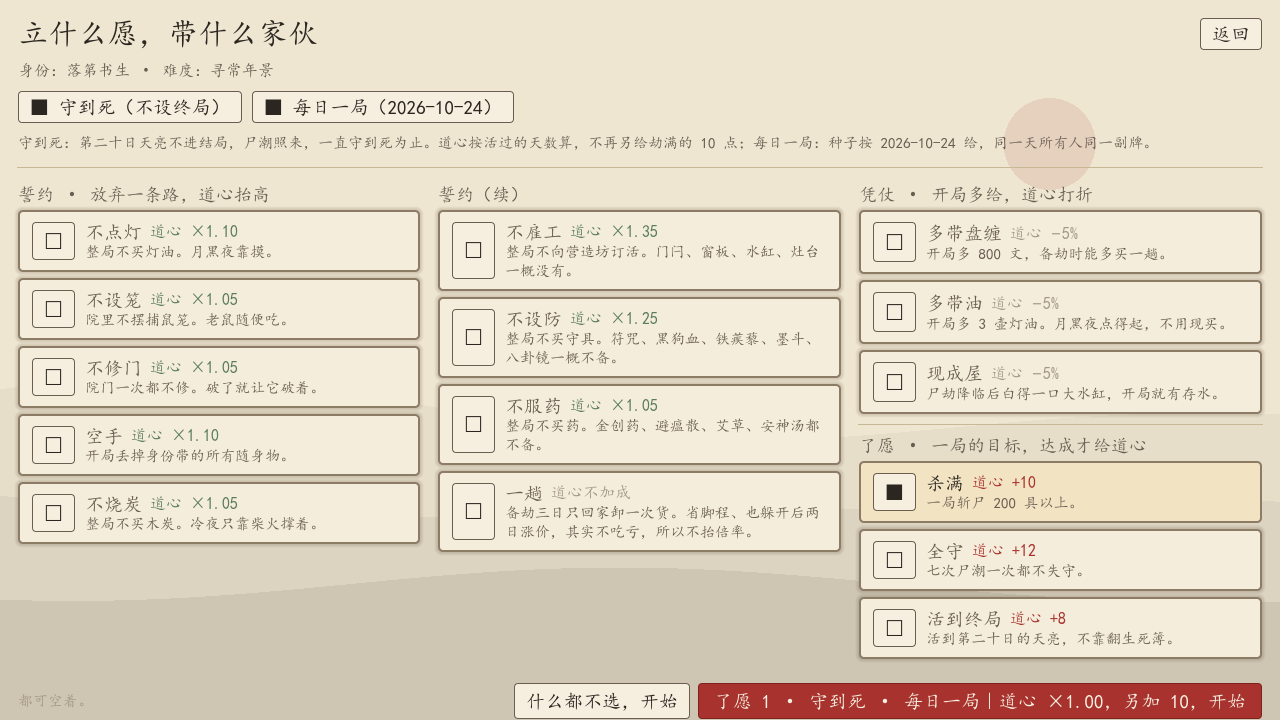
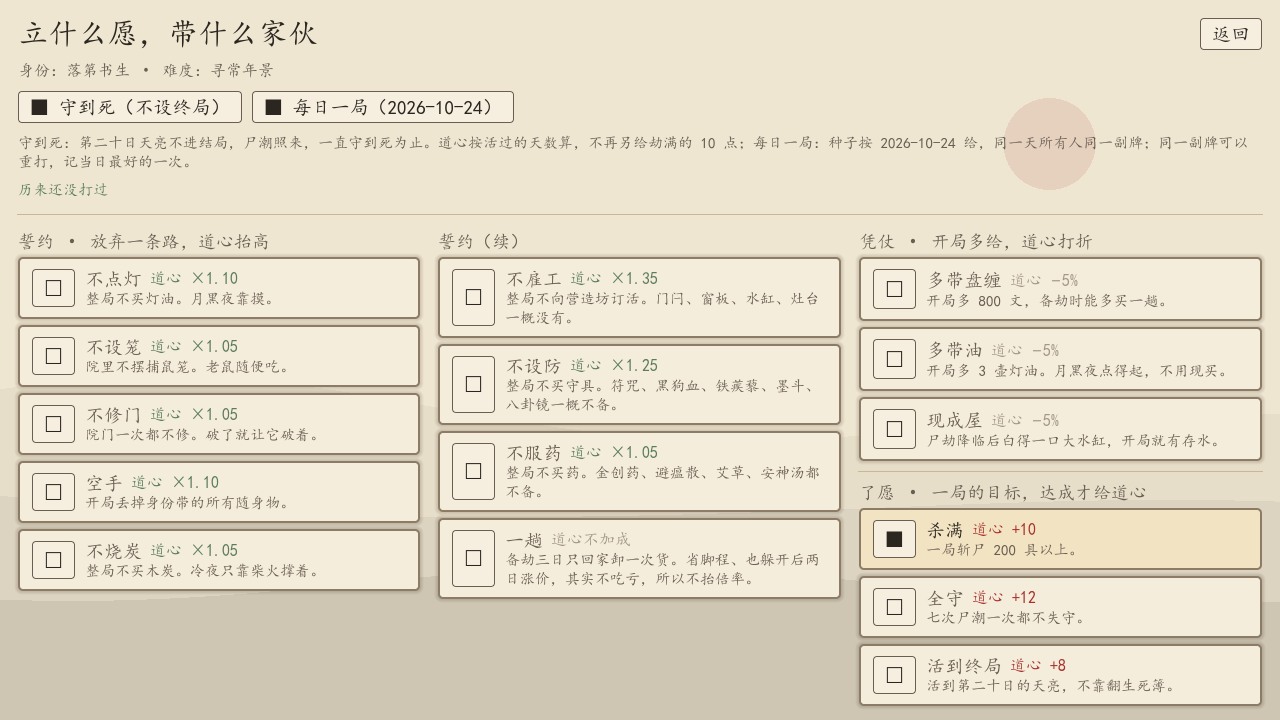
每日一局补上记分板：只记每日局、按模式分组、记当日最好
第 19 节留下的问题：每日一局只有"同一副牌"，打完没法跟自己昨天比。补分数口径。
四条口径都是我自己定的，理由写进 docs/09 第 20 节，容易被推翻，改起来只动 record_daily：

- 分数用结算道心（end_run 的总数），不另造一套数。道心已经把胜负、活过的天数、
  保住的波次、誓约倍率、了愿加减都折进去了，是唯一的统一口径。代价认下来：
  道心能被 9 条誓约拉到 ×2.00，所以榜上比的是"敢立多少誓 + 打得多好"。
- 只记每日局（run.flags.daily 非空）。寻常局能无限重开，进榜会把"今日最好"刷成随机数。
- 记开局那天，不记结算这天：跨零点打完的局归它自己那副牌，不然成绩会落到不相干的日子。
- 守到死 / 寻常分两组。守到死没有劫满那 10 点也没有终局，和寻常局放一个榜里永远垫底。
- 记当日最好、不卡次数：一局几十分钟，单机硬卡"一天一次"太苛刻。代价是改系统日期能刷，
  本地单机、没有联网榜，这个作弊面不值得用体验换。

落在 meta.daily（{day, runs, best, all}，按 normal/endless 分组），换日清当日、历来留着。
meta 一直是宽松读取，record_daily 里发现 daily 不是字典就补一个，旧档不用迁移。

显示两处：立愿界面勾上每日一局时报"今日第 N 局 · 今日最好 · 历来最好"；
结局界面（每日局才有）先预览——这一局的道心是点了"重走/合上"才落盘的，
不预览就只能看着"今日第 0 局"。

顺手改错：docs/07 里两条"缺"是错的。SelectPeople 有（roles_screen 选身份，
只是没有"挑同伴带走"那层）；加工/制符也有（devices.json 的 crafts），
只是制造只有画符一张配方，谈不上"取舍"。已按 grep 到的实情改写。

测试：sim_test 新增 test_daily_score（14/14）——寻常局不进榜、同一天取最好、
守到死分组、换日清当日留历来、跨天的局归自己那天、end_run 真落盘、预览行文案；
ui_smoke 在每日局上走一遍"结局界面 → 合上此录"，验 meta 被写进去（含守到死那组）。
screen_shot 重拍 challenge_modes.png（记分板那行没把三栏挤下去）。

回归：编译 53/0、测试 14/14 项、不变量 0、界面冒烟 0

Changed region(s): [[0.0, 0.2139, 1.0, 1.0], [0.9062, 0.1833, 0.9688, 0.2139]]

diff --git a/docs/09-challenge-mode-design.md b/docs/09-challenge-mode-design.md
@@ -722,4 +722,65 @@ docs/07 一直记着两条"缺"：**开局直接选无尽**（原作 `RogueSelec
 种子就是今天、守到死局里「活到终局」不算达成），ui_smoke 验两个开关的勾选与重画不叠层；
 `screen_shot` 加 `--mode=` 出图 docs/screenshots/challenge_modes.png。
 **未完成**：每日一局没有"今日最佳"这类横向比较（原作 `DailyScore`），现在只是同一副牌，
-不记分、不排名。**下一步**：如果要让每日局有意义，得先有分数口径（道心？活过天数？）。
+不记分、不排名。**下一步**：见第 20 节（记分板已补）。
+
+
+## 20. 每日一局的记分板
+
+第 19 节留下的问题：每日一局只有"同一副牌"，没有分数，所以打完没法跟自己昨天比、
+也没法跟同一副牌的别人比。这一节补分数口径。**下面四条都是我自己定的，理由是写出来的，
+容易被推翻，改起来也只动 `Ledger.record_daily` 一个函数**。
+
+### 20.1 分数用什么算：结算道心
+
+用 `Ledger.end_run` 算出来的**道心总数**，不另造一套分数。理由：道心已经把胜负、
+活过的天数、守住的波次、誓约倍率、了愿加减全都折进去了，是游戏里唯一的统一口径；
+再造一个"每日分"，玩家就得同时理解两套数，而且两套迟早会算出相反的结论
+（例如"道心低但活得更久"到底算打得好还是打得差）。
+
+代价认下来：**道心是可以被挑战选项拉高的**（9 条誓约全挑 ×2.00），
+所以记分板比的是"敢立多少誓约 + 打得多好"，不是纯技术。这跟道心本身的设计一致，不改。
+
+### 20.2 只记每日局
+
+`run.flags.daily` 空着的局（随机种子）一律不记。寻常局能无限重开，
+放进同一个榜会把"今日最好"顶成一条刷出来的数，每日一局就没有意义了。
+
+### 20.3 记开局那天，不记结算这天
+
+跨零点打完的局归它开局那天——那才是它用的那副牌。不然凌晨打完一局，
+成绩会落到"今天"，而今天的牌跟这局无关。
+
+### 20.4 寻常 / 守到死分两组
+
+守到死没有劫满那 10 点（`ENDING_BONUS` 只在 `phase == "ending"` 时给），也没有终局，
+和寻常局放在一个榜里永远垫底。两组各记各的，界面按当前选的模式显示对应那一组。
+
+### 20.5 记当日最好，不卡次数
+
+不学 Wordle 那种"一天只有一次"。一局要打几十分钟，单机硬卡次数太苛刻，
+打崩了就只能等明天。代价是**改系统日期就能刷**——本地单机、没有联网排名，
+这个作弊面不值得用体验去换。
+
+### 20.6 落在哪
+
+`meta.daily`（跨局档案）：`{"day": …, "runs": …, "best": {normal/endless}, "all": {…}}`。
+换日时当日那一栏清零，`all`（历来最好）留着。**没加存档版本号**：meta 一直是宽松读取的，
+`record_daily` 里发现 `daily` 不是字典就补一个 `State.new_daily()`，旧档不用迁移。
+
+显示两处：
+
+- **立愿界面**勾上每日一局时，下面一行「今日第 N 局 · 今日最好 X · 历来最好 Y」。
+- **结局界面**（每日局才有）：这一局的道心是点了"重走 / 合上"才落盘的，
+  所以界面上先把记分板**预览**出来（`daily_line` 传 `pending`），免得玩家看着"今日第 0 局"。
+
+---
+
+**本轮产出**：`State.new_daily()` + `meta.daily`；`Ledger.record_daily()`（end_run 里调）、
+`Ledger.daily_line()`（含 `pending` 预览）；立愿界面与结局界面各显示一行；
+sim_test 新增 `test_daily_score`（14/14）：寻常局不进榜、同一天取最好、守到死分组、
+换日清当日留历来、跨天的局归自己那天、end_run 真的落盘、预览行的文案；
+ui_smoke 在每日局上走一遍"结局界面 → 合上此录"，验 meta 真的被写进去。
+**未完成**：没有联网，所以没有跨玩家的排名，只能自己在本地比（原作 `DailyScore` 是有榜的）。
+**顺手改错**：docs/07 里两条"缺"其实是错的——`SelectPeople` 有（`roles_screen` 选身份），
+加工/制符也有（`devices.json` 的 crafts），只是制造只有画符一张配方，谈不上"取舍"。

diff --git a/README.md b/README.md
@@ -46,7 +46,7 @@
 
 1. **备劫三日**：在临川城里跑铺子囤货。走动耗时辰，独轮车有负重上限，酉时宵禁。铺子会从"正常"变成"拥挤"再到"哄抢"，门口人越来越多，米行第三日午时关门。营造坊（★）的活计要在第二日前订。时辰还多时歇下、或最后一天入夜前，都会先确认。
    - **载具在杂货铺买**：板车 600 文（+20 斤）、独轮车 1200 文（+40 斤）、驴车 3200 文（+70 斤，且远路只要一个时辰）。一趟只推一辆，**按载重最大的那辆算**，不叠加。灾后载具全部清掉。
-   - **开局先定难度**：选完身份进「这一劫，有多难？」，四档预设（暖冬 / 寻常年景 / 荒年 / 永夜），参数全在 `data/difficulty.json`。乘数管六件事：开局银两、气血上限、每小时食量、每小时水量、天气寒冷、尸潮规模。带记忆重开沿用上一档，不再问。定完难度进「立什么愿，带什么家伙」——誓约 / 凭仗 / 了愿都能空着，顶上还有两个**开局模式**开关：**守到死**（第二十日天亮不进结局，尸潮照来，守到死为止）和**每日一局**（种子按本地日期给，同一天所有人同一副牌）。
+   - **开局先定难度**：选完身份进「这一劫，有多难？」，四档预设（暖冬 / 寻常年景 / 荒年 / 永夜），参数全在 `data/difficulty.json`。乘数管六件事：开局银两、气血上限、每小时食量、每小时水量、天气寒冷、尸潮规模。带记忆重开沿用上一档，不再问。定完难度进「立什么愿，带什么家伙」——誓约 / 凭仗 / 了愿都能空着，顶上还有两个**开局模式**开关：**守到死**（第二十日天亮不进结局，尸潮照来，守到死为止）和**每日一局**（种子按本地日期给，同一天所有人同一副牌；记分用结算道心，今日最好 / 历来最好，守到死与寻常分开记）。
 2. **尸劫降临**：之后是**连续时间**，右上角有时辰表盘，左下角调倍速（❚❚ ▶ ▶▶ ▶▶▶）。做事要花时间：做饭一个时辰、打理菜畦四十五分钟、读书两个时辰……忙的时候时间自动加速，睡觉更快。一天的节奏：8:00 可能来事件，18:00 天黑，20:00 自动取暖，21:00 外出的必须回家、有尸潮的夜里同时要**布防**，22:00 尸潮，次日 6:00 天亮结算**功过格**。
    - **20:00 取暖怎么取**：装了**柴油发电机**且库里有柴油，就烧一桶油转一整夜（再装上**暖气**的话屋里整夜往上回暖、睡觉也睡得沉）；不然照旧烧炭 / 柴。**只有冷夜才值得烧油**，暖夜开机器是白烧。油在杂货铺有卖，一桶三百文。
    - HUD 参考原版布局：左上菜畦清单（带倒计时）、今夜预警和**布防守力预测**，右上第几日 / 时刻 / 表盘 + 印章按钮 + 院子温度，右下状态条，左下背包 + 常用行为 + 倍速，底部正中心愿。

diff --git a/docs/07-survival-log-features.md b/docs/07-survival-log-features.md
@@ -50,7 +50,7 @@
 | `TradeUI` 以物易物 | 无（只有银钱交易） |
 | `PawnShop` 当铺 | `pawn()`，家传物按 0.9、其余按 0.6 折算 |
 | `VehicleShop` 载具店 | **v0.9 已补**：板车（600/+20）、独轮车（1200/+40）、驴车（3200/+70 且远路一个时辰），杂货铺有售 |
-| `SelectPeople` 选择带走谁 | **无** |
+| `SelectPeople` 选择带走谁 | **半有**：`roles_screen` 选身份对应这一步（原作也是"开局先挑人"），但只挑一个自己、没有"从名单里挑同伴带走"那层——本作没有同伴系统 |
 | `DifficultySelect` 难度预设 | **v0.8 已补**：`data/difficulty.json` 四档（暖冬 / 寻常年景 / 荒年 / 永夜），乘数落到开局银两、气血上限、食量、水量、寒冷、尸潮规模 |
 | `ChallengeSetup` 挑战自选 | **已补**（9 誓约 / 3 凭仗 / 3 了愿，全数据驱动，见 `docs/09`）。原作是三张参数表；本作改成「誓约抬倍率 − 凭仗扣倍率 × 了愿加分」的结算，倍率按实测代价定价 |
 | `RogueSelect` 肉鸽入口 | **已补**：立愿界面顶上两个开关——「守到死」（开局就置 `run.endless`，第 20 日天亮不进结局，尸潮照来，守到死为止）与「每日一局」（种子按本地日期给，同一天所有人同一副牌）。无尽模式本身是劫满后"守下去"转入，见下 |
@@ -89,7 +89,7 @@
 ### 3.2 生产链（做得多、做得细）
 | 面板 | 功能 | 劫余录 |
 |---|---|---|
-| `ToolTable` | 工作台制造：配方、批量、连续制造、笔记分类、材料架互倒 | **有**（recipes.json） |
+| `ToolTable` | 工作台制造：配方、批量、连续制造、笔记分类、材料架互倒 | **有但只有一张配方**：`data/devices.json` 的 `crafts`（画符：黄纸 2 + 朱砂 1 → 符 2，`Post.act_craft`）。烹饪配方是另一张表 `data/recipes.json`。**"取舍"谈不上**——一条路不存在选择 |
 | `Cooking` | 烹饪：配方、加燃料、开始 / 停止、冰箱引导 | **有** |
 | `BrewPanel` | 酿造 | **无** |
 | `DyePanel` | 染色（`PlantPigment` 植物颜料） | **无** |
